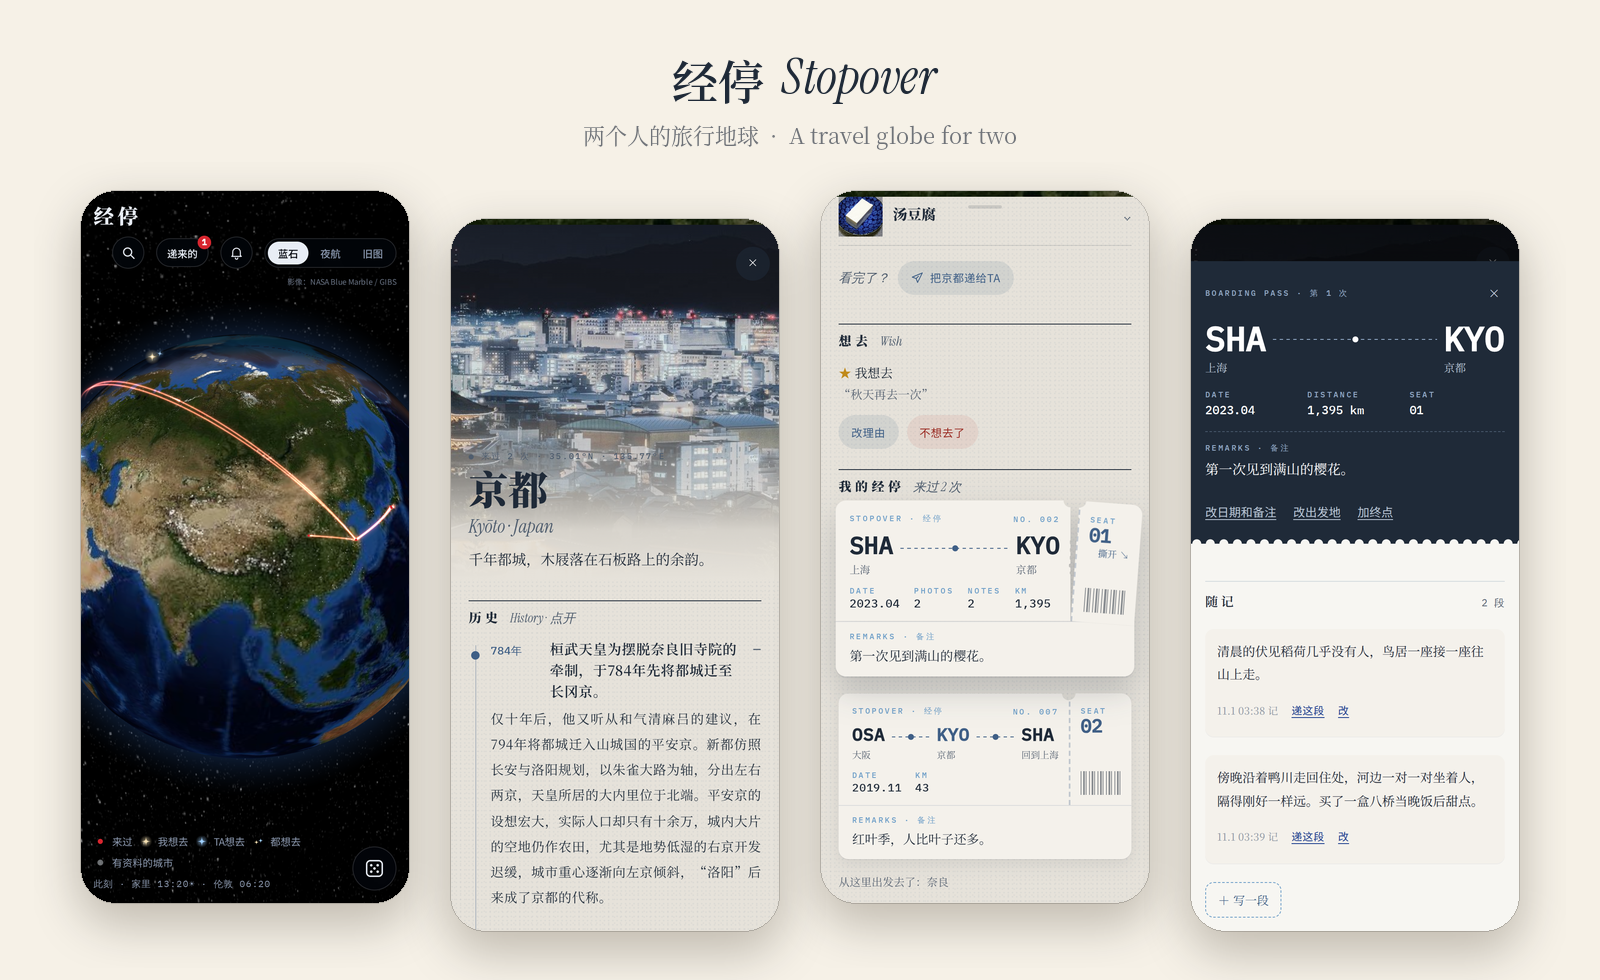
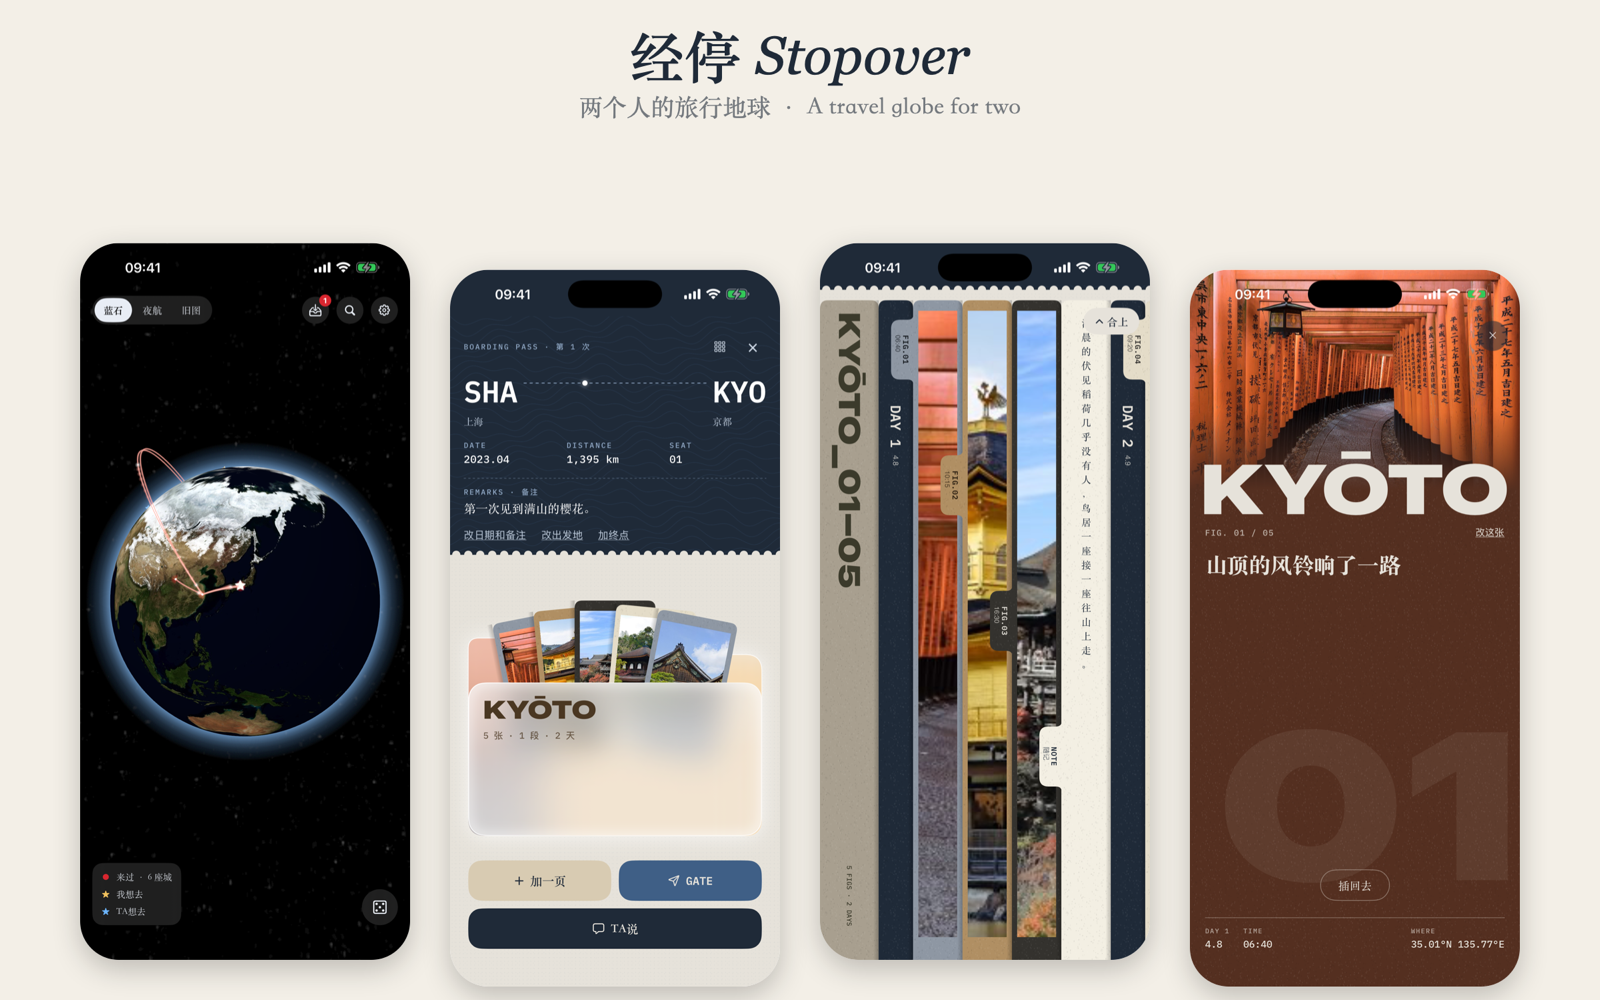
README: new screenshots and the iOS binder folder trip page
Replace the hero and social preview with the current iOS app, add a three-globe image, and describe the folder, binder strips, poster pages and captions while uploading. All screenshots use made-up demo data; photo credits updated.

diff --git a/README.en.md b/README.en.md
@@ -2,7 +2,7 @@
 
 [中文](README.md) · **English**
 
-![Stopover: the globe, the Kyoto page, a boarding pass and a trip](docs/img/hero.png)
+![Stopover on iOS: the globe, the folder, binder strips and a poster page](docs/img/hero.png)
 
 **A travel globe for two: the places you've been glow red on the globe, and every stopover is a boarding pass whose stub you tear off to open it.**
 
@@ -20,10 +20,12 @@ Mark the cities you've been to on a globe. Every stopover is a boarding pass —
 - **Traces on the map**: red dots for places you've been, with a glowing arc flying in from where you set off and on to where you went next if there is one. Places you want to go are stars — gold for you, blue for your partner, a pair when you both want to go. Clocks and day/night follow the time zones in your config.
 - **Boarding passes**: one per visit — origin → city → next stop, dates, distance and a remark. Tap to lift it, drag the stub to tear it off (or tap again and it tears itself), and you're in the trip.
 
-- **The trip page** (这一次): notes of any length, photos (deduplicated, EXIF capture date, captions and tags), and editable dates, origin and next stop.
+- **The trip page** (这一次): notes of any length, photos (deduplicated, EXIF capture date, captions and tags), and editable dates, origin and next stop. On iOS it's a [binder folder](#the-trip-page-on-ios-a-binder-folder).
 - **City pages**: 852 cities have a long-form Chinese page — a history timeline, culture, a sights carousel and a food menu, illustrated with Wikimedia Commons photos and with sources linked on the page. The other 769 have a "Write it up" (整理) button that drafts a page on the spot from Wikipedia / Wikivoyage (needs a DeepSeek key); places not on the map can be found on Wikidata and added.
 - **Search in three tabs**: by country / where you've been (grouped by country) / where you want to go (both of you, just you, just your partner). Out of ideas? Roll the dice: it picks a random city from all of them, the unvisited ones, or your stars.
 - The web app can be added to your home screen and used like an app; there's also a native SwiftUI app.
+
+![Three globes: Blue Marble, Night Flight and Old Map](docs/img/globes.png)
 
 <p align="center">
   <img src="docs/img/night.png" width="240" alt="Night Flight style: city lights">
@@ -35,6 +37,34 @@ Mark the cities you've been to on a globe. Every stopover is a boarding pass —
 
 <p align="center"><img src="docs/img/tear.gif" width="280" alt="Lifting a boarding pass and tearing off the stub to open the trip"></p>
 <p align="center"><sub>Like this: tap to lift the pass, drag the stub down and away, and the trip is right behind it.</sub></p>
+
+### The trip page on iOS: a binder folder
+
+> Only the iOS app looks like this for now. The web app still has the original grid and will catch up later.
+
+Each stopover is a frosted-glass folder. The trip's photos peek out of the top, and their colors glow through the glass.
+
+<p align="center">
+  <img src="docs/img/trip-folder-open.gif" width="240" alt="Opening the folder: photos fly out into binder strips">
+  &nbsp;
+  <img src="docs/img/trip-strips.png" width="240" alt="Binder strips: cover, days, photos and a note">
+</p>
+
+- **Closed**: the boarding pass, the folder and the add / gate / partner entries all fit on one screen, so you can hand something over or add a page without going through the photos.
+- **Open**: the front flap drops and the pages fly out one by one into full-height strips. "合上" (close) at the top right puts them back.
+- **Binder strips**: swipe sideways. Pages follow capture time, multi-day trips split into DAY 1, DAY 2, and notes are vertical slips of paper. Narrow strips center on faces in the photo.
+- **Pull one out**: drag a strip upward or tap it, and it opens into a full page. "插回去" (put back), × or pulling down returns it.
+
+<p align="center">
+  <img src="docs/img/trip-poster.png" width="240" alt="Poster page: a short caption as the headline, tinted from the red-brown torii">
+  &nbsp;
+  <img src="docs/img/trip-poster-caption.png" width="240" alt="Poster page: a medium caption, tinted from the gold of Kinkaku-ji">
+</p>
+
+- **Poster pages**: every photo gets a page tinted from its own colors. The photo fades into that color and the city name sits across the seam. Captions are set by length: a short line is a headline, a longer one is body text, and a very long one gets a drop cap. The number, day, time and coordinates are printed below.
+- **Captions while uploading**: pick several photos and write a caption for each. Dates are forgiving too: `2019.8.3`, `2019/8/3`, `2019年8月3日` and `20190803` all work, and so does just a year or month.
+
+<p align="center"><img src="docs/img/trip-upload.png" width="240" alt="Writing a caption for each photo while uploading"></p>
 
 ### Together (optional — switch it all off)
 
@@ -245,5 +275,5 @@ Adding cities: if search can't find a place, look it up on Wikidata right below 
 
 - Code, design and sample data: **CC BY-NC-SA 4.0** (Attribution–NonCommercial–ShareAlike), see `LICENSE`. Free to use, adapt and share, **not for commercial use**; adapted versions must use the same license. This is a source-available project, not OSI open source.
 - City texts in `web/data/`: **CC BY-SA 4.0** (derived from Wikipedia / Wikivoyage), see `web/data/LICENSE`. Images are not in the repo; they're hotlinked from Wikimedia Commons under their own licenses.
-- The two Kyoto photos in the trip screenshot in `docs/img/` are from Wikimedia Commons: *Torii path with lantern at Fushimi Inari Taisha Shrine* by Basile Morin (CC BY-SA 4.0) and *Kinkaku-ji14* by dconvertini (CC BY-SA 2.0); images in the city pages likewise come from Commons under their own licenses.
+- The Kyoto photos in the trip screenshots in `docs/img/` are from Wikimedia Commons: *Torii path with lantern at Fushimi Inari Taisha Shrine* by Basile Morin (CC BY-SA 4.0), *Kinkaku-ji14* by dconvertini (CC BY-SA 2.0), *Kiyomizu-dera, Kyoto, November 2016 -02* by Martin Falbisoner (CC BY-SA 4.0), *Kyoto Ginkaku-ji Ginkaku 01* by Zairon (CC BY-SA 4.0) and *L'entrée du palais Ninomaru (Château de Nijo, Kyoto)* by Jean-Pierre Dalbéra (CC BY 2.0); images in the city pages likewise come from Commons under their own licenses.
 - Third-party notices are in `THIRD_PARTY.md` (the boarding-pass interaction is based on jal-co/boarding-pass, MIT).

diff --git a/README.md b/README.md
@@ -2,7 +2,7 @@
 
 **中文** · [English](README.en.md)
 
-![经停 Stopover：地球总览、京都长卷、登机牌、这一次](docs/img/hero.png)
+![经停 Stopover（iOS 版）：地球、文件夹、活页竖条、海报页](docs/img/hero.png)
 
 **两个人的旅行地球：去过的城市是地球上的红点，每一次经停是一张可以撕开存根的登机牌。**
 
@@ -20,10 +20,12 @@
 - **地图上的痕迹**：来过的城是红点，从出发地拉出一道光带飞过去，有终点的再连回去；想去的是星星——金色是你的、蓝色是 TA 的、两个人都想去的是一对。时钟和昼夜按配置里的时区显示。
 - **登机牌**：每来一次是一张票——出发地 → 城市 → 终点、日期、里程、一句备注。轻点抬起，拖着存根撕开（或再点一下让它自己撕），进入「这一次」。
 
-- **这一次**：随记（长短都行）、照片（自动去重、读拍摄时间、配文和标签）、改日期 / 出发地 / 终点。
+- **这一次**：随记（长短都行）、照片（自动去重、读拍摄时间、配文和标签）、改日期 / 出发地 / 终点。iOS 版把它做成了一只[活页文件夹](#ios-版的这一次活页文件夹)。
 - **城市长卷**：852 座城有中文长卷——历史时间轴、文化、景点轮播、美食菜单，配维基共享资源的图，页面上带来源链接。另外 769 座点开有「整理」按钮，现场从 Wikipedia / Wikivoyage 写一页（要 DeepSeek key）；地图上没有的地方可以从 Wikidata 搜出来加上。
 - **搜索三栏**：按国家找 / 去过的（按国家分组）/ 想去的（都想去、我想去、TA 想去）。没主意时摇骰子：所有城市、没去过的、或者想去的星星里随机挑一座。
 - 网页可以「添加到主屏幕」当 App 用；也有 SwiftUI 原生版。
+
+![三种地球：蓝石、夜航、旧图](docs/img/globes.png)
 
 <p align="center">
   <img src="docs/img/night.png" width="240" alt="夜航风格：城市灯光">
@@ -35,6 +37,34 @@
 
 <p align="center"><img src="docs/img/tear.gif" width="280" alt="抬起登机牌，拖着存根撕开，进入「这一次」"></p>
 <p align="center"><sub>就是这样：轻点抬起登机牌，拖着存根往右下撕开，「这一次」就在后面。</sub></p>
+
+### iOS 版的「这一次」：活页文件夹
+
+> 目前只有 iOS 版是这个样子，网页版还是原来的网格，之后会跟上。
+
+每一次经停是一只磨砂玻璃文件夹，这一趟的照片从文件夹口探出来，玻璃里透着它们的颜色。
+
+<p align="center">
+  <img src="docs/img/trip-folder-open.gif" width="240" alt="点开文件夹，照片飞出来排成活页竖条">
+  &nbsp;
+  <img src="docs/img/trip-strips.png" width="240" alt="活页竖条：封面、分天、照片和随记">
+</p>
+
+- **合上时**：登机牌、文件夹和「加一页 / GATE / TA 说」都在一屏里，想递东西或加一页不用翻照片。
+- **点开时**：前盖翻下，纸一张接一张飞出来，变成占满整屏的竖条。右上角「合上」再收回去。
+- **活页竖条**：左右滑。按拍摄时间排，跨天会分出 DAY 1、DAY 2，随记是竖排的字纸。窄条会对准照片里的人脸。
+- **抽出来看**：按住一条往上拖，或者点一下，它就展开成一整页；「插回去」、× 或下拉都能收回。
+
+<p align="center">
+  <img src="docs/img/trip-poster.png" width="240" alt="海报页：短配文做大标题，底色取自鸟居的红棕">
+  &nbsp;
+  <img src="docs/img/trip-poster-caption.png" width="240" alt="海报页：中等长度的配文，底色取自金阁的金棕">
+</p>
+
+- **海报页**：每张照片一页，底色从这张照片里取，照片底部慢慢融进去，城市名跨在交界上。配文按长短排：一句短话做大标题，长一点是正文，很长的首字放大。下面印着编号、第几天、时间和经纬度。
+- **上传时写配文**：一次选好几张，每张可以写自己的配文。写日期也不用记格式，`2019.8.3`、`2019/8/3`、`2019年8月3日`、`20190803` 都认，只记得年或月也行。
+
+<p align="center"><img src="docs/img/trip-upload.png" width="240" alt="上传照片时每张写一句配文"></p>
 
 ### 两个人用（可整块关掉）
 
@@ -245,5 +275,5 @@ location / {
 
 - 代码、设计、示例数据：**CC BY-NC-SA 4.0**（署名—非商业性使用—相同方式共享），见 `LICENSE`。可以自己用、改、分享，**不可商用**；改过的版本要用同样的许可。这是一个源码公开的项目，不算 OSI 意义上的开源。
 - 城市资料 `web/data/`：**CC BY-SA 4.0**（源自 Wikipedia / Wikivoyage），见 `web/data/LICENSE`。图片不在仓库里，链到维基共享资源，各自遵循原许可。
-- `docs/img/` 截图里「这一次」的两张京都照片来自 Wikimedia Commons：*Torii path with lantern at Fushimi Inari Taisha Shrine* by Basile Morin（CC BY-SA 4.0）、*Kinkaku-ji14* by dconvertini（CC BY-SA 2.0）；城市长卷里的图同样来自 Commons，各自遵循原许可。
+- `docs/img/` 截图里「这一次」的京都照片来自 Wikimedia Commons：*Torii path with lantern at Fushimi Inari Taisha Shrine* by Basile Morin（CC BY-SA 4.0）、*Kinkaku-ji14* by dconvertini（CC BY-SA 2.0）、*Kiyomizu-dera, Kyoto, November 2016 -02* by Martin Falbisoner（CC BY-SA 4.0）、*Kyoto Ginkaku-ji Ginkaku 01* by Zairon（CC BY-SA 4.0）、*L'entrée du palais Ninomaru (Château de Nijo, Kyoto)* by Jean-Pierre Dalbéra（CC BY 2.0）；城市长卷里的图同样来自 Commons，各自遵循原许可。
 - 第三方声明见 `THIRD_PARTY.md`（boarding-pass 交互参考 jal-co/boarding-pass，MIT）。

diff --git a/ios/README.en.md b/ios/README.en.md
@@ -20,7 +20,7 @@ A native SwiftUI client for `server/stopover.py` in this same repository.
 ## What's in it
 
 The globe (three styles — Blue Marble (蓝石), Night Flight (夜航) and Old Map (旧图) — with red dots for places you've been, red arcs and shooting stars from where you set off, stars for places you want to go, and city names as you zoom in);
-city pages (history timeline / culture / sights carousel / food); a boarding pass for every visit (tear off the stub to open the trip (这一次));
+city pages (history timeline / culture / sights carousel / food); a boarding pass for every visit (tear off the stub to open the trip (这一次): a folder, binder strips and poster pages);
 editable dates and remarks / origin / next stop, notes, photos, wishlist stars, search (by country / where you've been / where you want to go; places it can't find can be added from Wikidata),
 the dice, and writing up a page on the spot for cities without one (the server needs `DEEPSEEK_API_KEY`).
 

diff --git a/ios/README.md b/ios/README.md
@@ -20,7 +20,7 @@ SwiftUI 原生版，连同一个仓库里的 `server/stopover.py`。
 ## 有什么
 
 地球（蓝石 / 夜航 / 旧图三种风格，来过的红点、出发地连过来的红线和流星、想去的星星、放大显示城名）、
-城市长卷（历史时间轴 / 文化 / 景点轮播 / 美食）、每一次来过一张登机牌（手撕存根进「这一次」）、
+城市长卷（历史时间轴 / 文化 / 景点轮播 / 美食）、每一次来过一张登机牌（手撕存根进「这一次」，文件夹 + 活页竖条 + 海报页）、
 改日期备注 / 出发地 / 终点、随记、照片、想去、搜索（按国家 / 去过的 / 想去的，找不到的地方可以从 Wikidata 加上）、
 骰子、给没资料的城现场整理一页（服务端要配 `DEEPSEEK_API_KEY`）。
 
